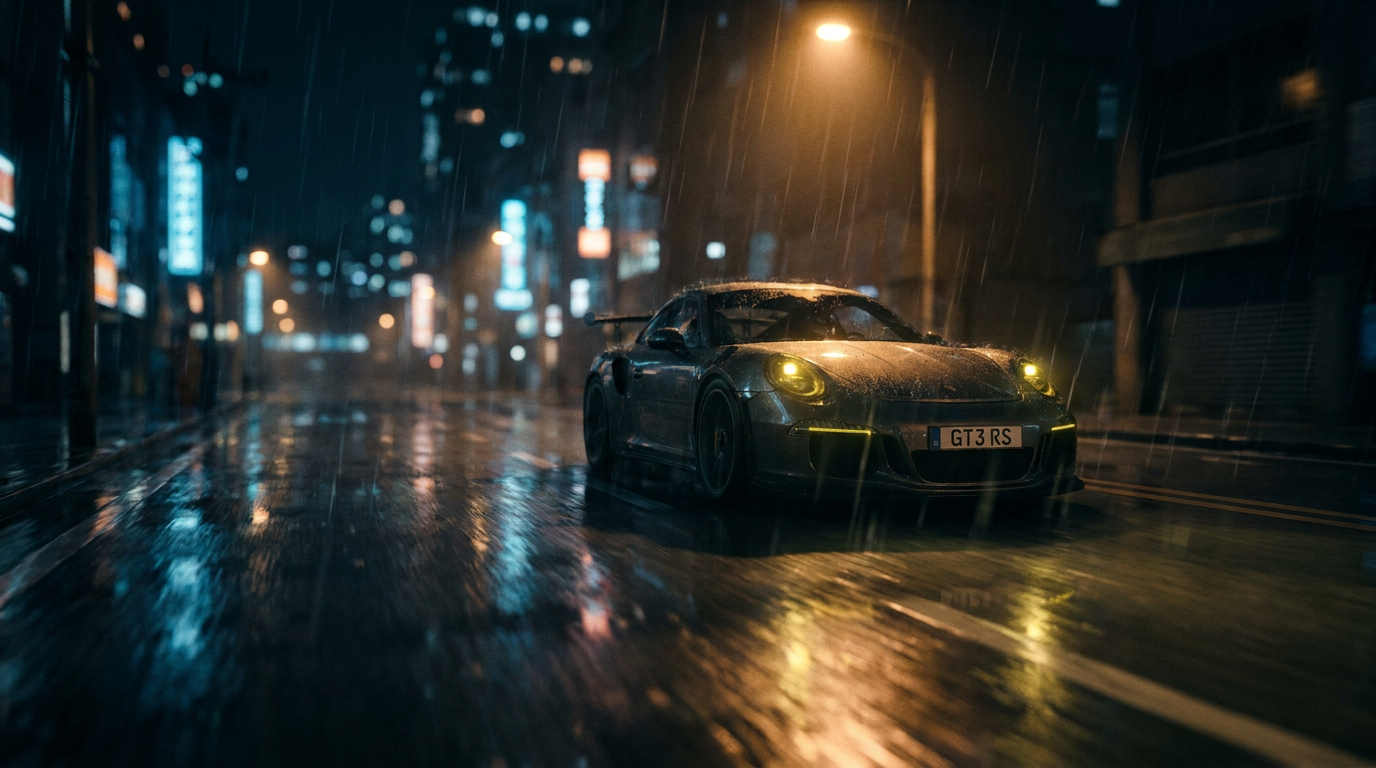
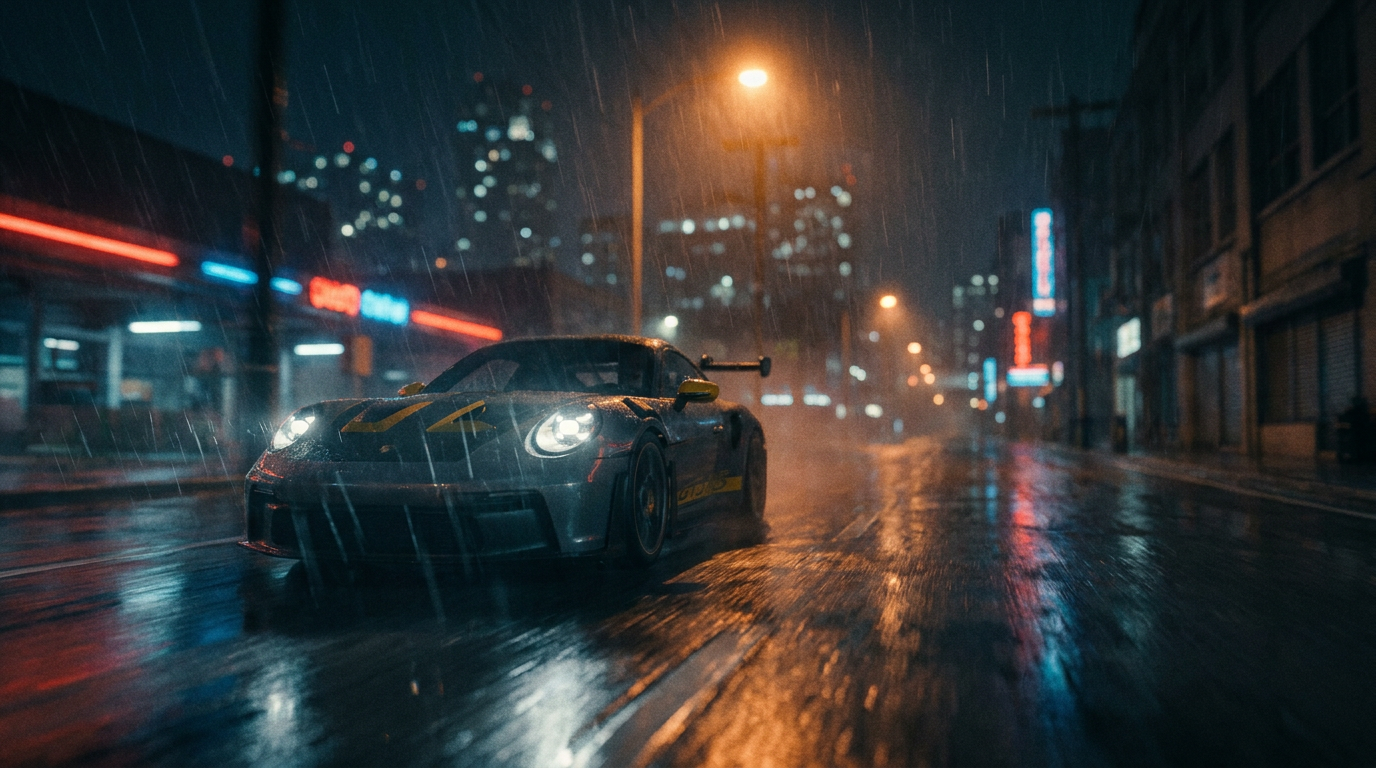
Re-lock hero frame to candidate 3 to match the Act 1 loop
The hero loop was generated from candidate 3 as both start and end
image, while the locked colour reference was candidate 4, so the two
assets disagreed on the car's appearance. Re-locks the reference to
candidate 3 so downstream shots art-direct against what the loop
actually shows.

This accepts candidate 3's invented yellow livery rather than removing
it, so the log now records that constraint against Act 3: the six stat
captions need placement that works around the livery graphics, favouring
the emptier camera-right road area.

Also notes that the video's own first frame is the better poster source
than the still, since it matches the encode exactly.

Claude-Session: https://claude.ai/code/session_01GPawPv7Wj961Dx91u6tMSz

diff --git a/car-showcase/GENERATION-LOG.md b/car-showcase/GENERATION-LOG.md
@@ -27,12 +27,9 @@ user-supplied asset, not a non-AI one.
 | **Committed** | 1920 × 1080, CRF 23, silent, faststart — 4.4 MB |
 | **Audio** | extracted to `assets/hero-loop-audio.m4a` (129 KB) |
 
-> ⚠ **Frame mismatch.** Both `start_image` and `end_image` were
-> `c038068e-32fb-4acf-9a70-5efdfcb6023e` — **Candidate 3**, not the locked hero
-> frame `assets/hero-frame.png` (Candidate 4, `3ee06f36…`). Candidate 3 carries
-> the invented yellow livery and side text. Acts 2 and 3 are meant to
-> art-direct back to the locked frame's grade, so these two assets currently
-> disagree about what the car looks like. Unresolved.
+Both `start_image` and `end_image` were
+`c038068e-32fb-4acf-9a70-5efdfcb6023e` — Candidate 3. The hero frame was
+re-locked to match (see below), so the loop and the colour bible now agree.
 
 **Loop quality (measured, not eyeballed):** the final frame is the closest match
 to frame 0 — SSIM 0.809, falling monotonically backward through the tail
@@ -58,21 +55,37 @@ later shot art-directs back to this frame's light temperature and grade.
 
 | | |
 |---|---|
-| **Job ID** | `3ee06f36-0712-4ec6-bc81-e507d4af8874` |
+| **Job ID** | `c038068e-32fb-4acf-9a70-5efdfcb6023e` |
 | **Model** | `nano_banana_pro` (served as `nano_banana_2`) |
 | **Dimensions** | 1376 × 768 (16:9, 1k) |
 | **Cost** | 8 credits (4 candidates × 2 credits each) |
-| **Selected** | Candidate 4 of 4 |
+| **Selected** | Candidate 3 of 4 |
 
-**Why this frame won:** streetlight sits directly above the car (the loop beat
-specified in the treatment); background is genuinely dissolved into soft bokeh
-rather than competing detail; long vertical reflection smears on wet asphalt;
-large clean negative space camera-left for Act 3 stat placement; cool blue-black
-shadows with warm practicals as the only saturation.
+**Why this frame:** chosen to match `assets/hero-loop.mp4`, which was generated
+from it as both `start_image` and `end_image`. Candidate 4 was the original pick
+on compositional merit, but the loop had already been built from Candidate 3, and
+keeping the delivered loop was preferred over regenerating. Consistency with the
+locked motion asset decided this, not the frame's own merits.
 
-**Known compromises:** not a pixel-accurate 992 GT3 RS — reads as "911-ish GT3
-RS", which is a consistent limitation of current image models on exact model-year
-fidelity. Carries a fabricated "GT3 RS" number plate.
+**Known compromises, carried knowingly:**
+
+- **Invented yellow livery and side text.** Not a clean hero object. This was
+  flagged before selection as a risk to **Act 3**, where six stat captions have
+  to sit in negative space without competing — the livery graphics add visual
+  noise in exactly that register. Choosing this frame accepts that risk rather
+  than removing it, so **Act 3 stat placement must be designed around the
+  livery**, favouring the emptier camera-right road area over anything crossing
+  the car's flank.
+- Not a pixel-accurate 992 GT3 RS — reads as "911-ish GT3 RS", a consistent
+  limitation of current image models on exact model-year fidelity.
+- Background is busier than Candidate 4's (skyline detail, twin neon signs), so
+  it dissolves less cleanly into bokeh. Depth of field in later shots should
+  compensate.
+
+> **Poster note:** for the `<video poster>` attribute, prefer frame 0 of
+> `hero-loop.mp4` over this still. They are compositionally the same shot, but
+> the encoded first frame matches the video exactly and avoids a visible pop on
+> playback start.
 
 **Prompt:**
 
